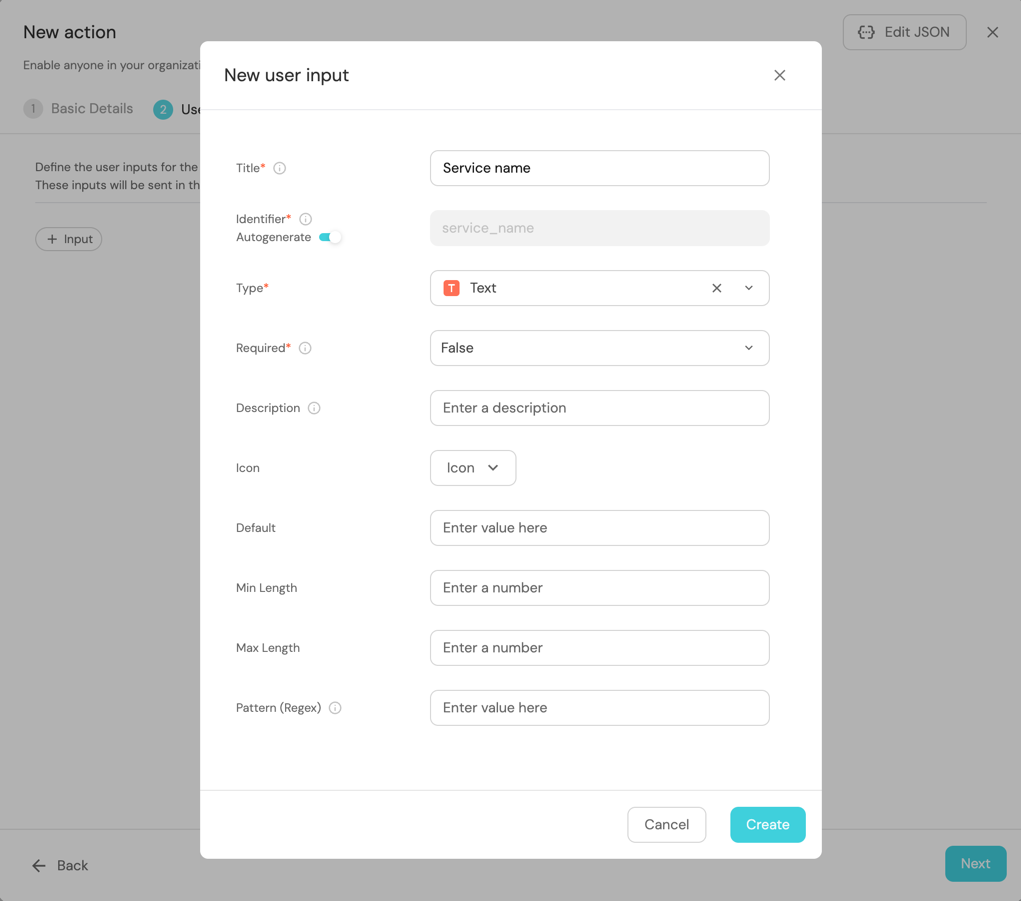
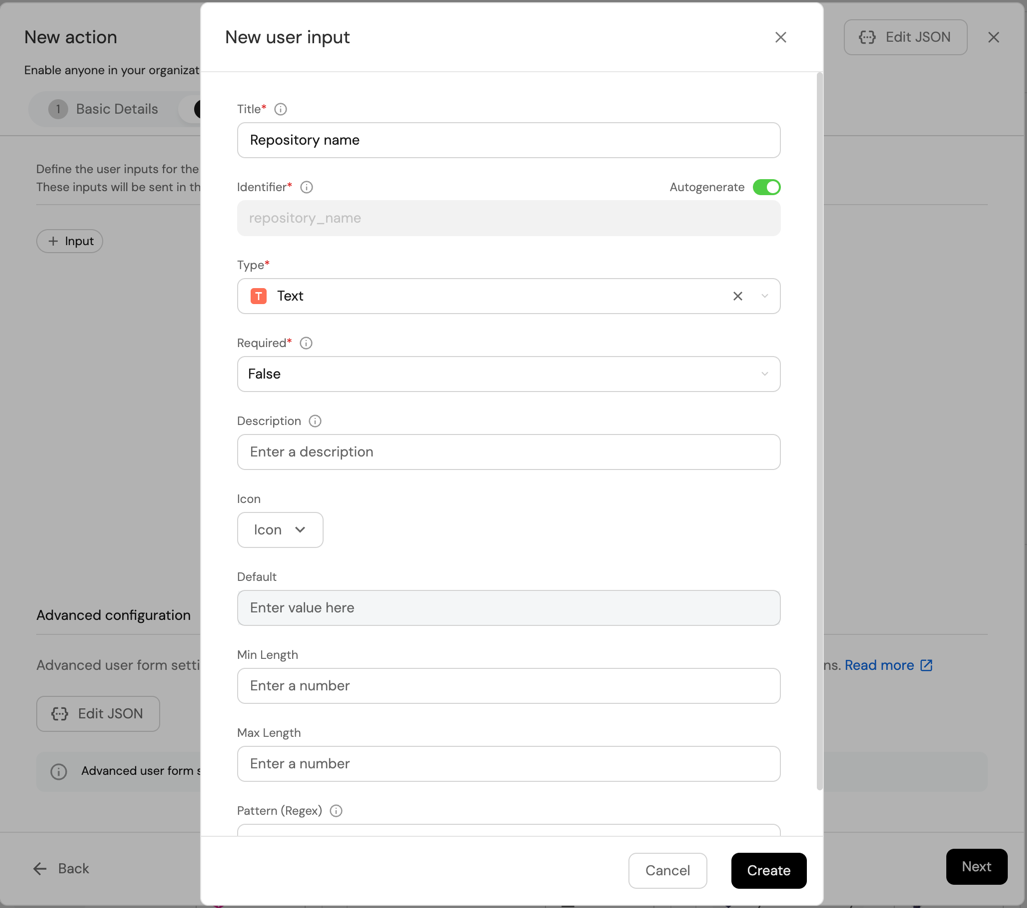
- modified the scaffolder to use repository instead of service and changed the content to fit the new strategy

diff --git a/docs/guides/all/scaffold-a-new-service.md b/docs/guides/all/scaffold-a-new-service.md
@@ -1,15 +1,15 @@
 ---
 sidebar_position: 1
-title: Scaffold a new service
+title: Scaffold a new repository
 displayed_sidebar: null
-description: Learn how to scaffold a new service in Port with this guide, ensuring efficient setup and streamlined development.
+description: Learn how to scaffold a new repository in Port with this guide, ensuring efficient setup and streamlined development.
 ---
 
 import Tabs from "@theme/Tabs"
 import TabItem from "@theme/TabItem"
 import PortTooltip from "/src/components/tooltip/tooltip.jsx"
 
-# Scaffold a new service
+# Scaffold a new repository
 
 This guide takes 7 minutes to complete, and aims to demonstrate the power of self-service actions in Port.
 
@@ -24,13 +24,13 @@ This guide takes 7 minutes to complete, and aims to demonstrate the power of sel
 
 ### The goal of this guide
 
-In this guide we will create an action that initializes a new Git repository. In reality, such an action can be used by developers to scaffold new services.
+In this guide we will create an action that initializes a new Git repository and attach it to the existing **Service** in Port. In reality, such an action can be used by developers to scaffold a new repository.
 
 After completing it, you will get a sense of how it can benefit different personas in your organization:
 
-- Developers will be able to scaffold new services easily.
-- R&D managers will be able to get an overview of new services - how many were created and by whom.
-- Platform engineers will be able to control permissions to ensure only the relevant people can create new services.
+- Developers will be able to scaffold new repositories easily.
+- R&D managers will be able to get an overview of new repositories and the services they are related to, how many were created and by whom.
+- Platform engineers will be able to control permissions to ensure only the relevant people can create new repositories.
 
 <br/>
 
@@ -48,12 +48,12 @@ After completing it, you will get a sense of how it can benefit different person
 
     <img src='/img/guides/addActionIcon.png' width='35%' border='1px' />
 
-3. Fill the basic form with the **Title** and **Description** and select `Create` and `Service` for the **Operation** and **Blueprint** respectively.
+3. Fill the basic form with the **Title** and **Description** and select `Create` and `Repository` for the **Operation** and **Blueprint** respectively.
 
     <img src='/img/guides/scaffoldActionDetails.png' width='70%' border='1px' />
     <br/>
 4. Click on the `Next` to proceed to the `User Form` tab and click on `+ Input`.
-5. Enter `Service name` as the **Title**, select `Text` for the **Type**, set **Required** to `True`, and click on the `Create` button.
+5. Enter `Repository name` as the **Title**, select `Text` for the **Type**, set **Required** to `True`, and click on the `Create` button.
 
     <img src='/img/guides/scaffoldActionInputDetails.png' width='70%' border='1px' />
     <br/>
@@ -320,7 +320,7 @@ If the template GitHub repo is not within the same organization where this repo 
 <summary><b>Github workflow (click to expand)</b></summary>
 
 ```yaml showLineNumbers title="port-create-repo.yml"
-name: Scaffold a new service
+name: Scaffold a new repository
 on:
   workflow_dispatch:
     inputs:
@@ -329,7 +329,7 @@ on:
         description: Includes the action's run id
       service_name:
         required: true
-        description: The name of the new service
+        description: The name of the new repository
         type: string
 jobs:
   scaffold-service:
@@ -1157,7 +1157,7 @@ Congratulations! You can now create services easily from Port 💪🏽
 
 ### Possible daily routine integrations
 
-- Send a slack message in the R&D channel to let everyone know that a new service was created.
+- Send a slack message in the R&D channel to let everyone know that a new repository was created.
 - Send a weekly/monthly report for managers showing all the new services created in this timeframe and their owners.
 
 ### Conclusion
